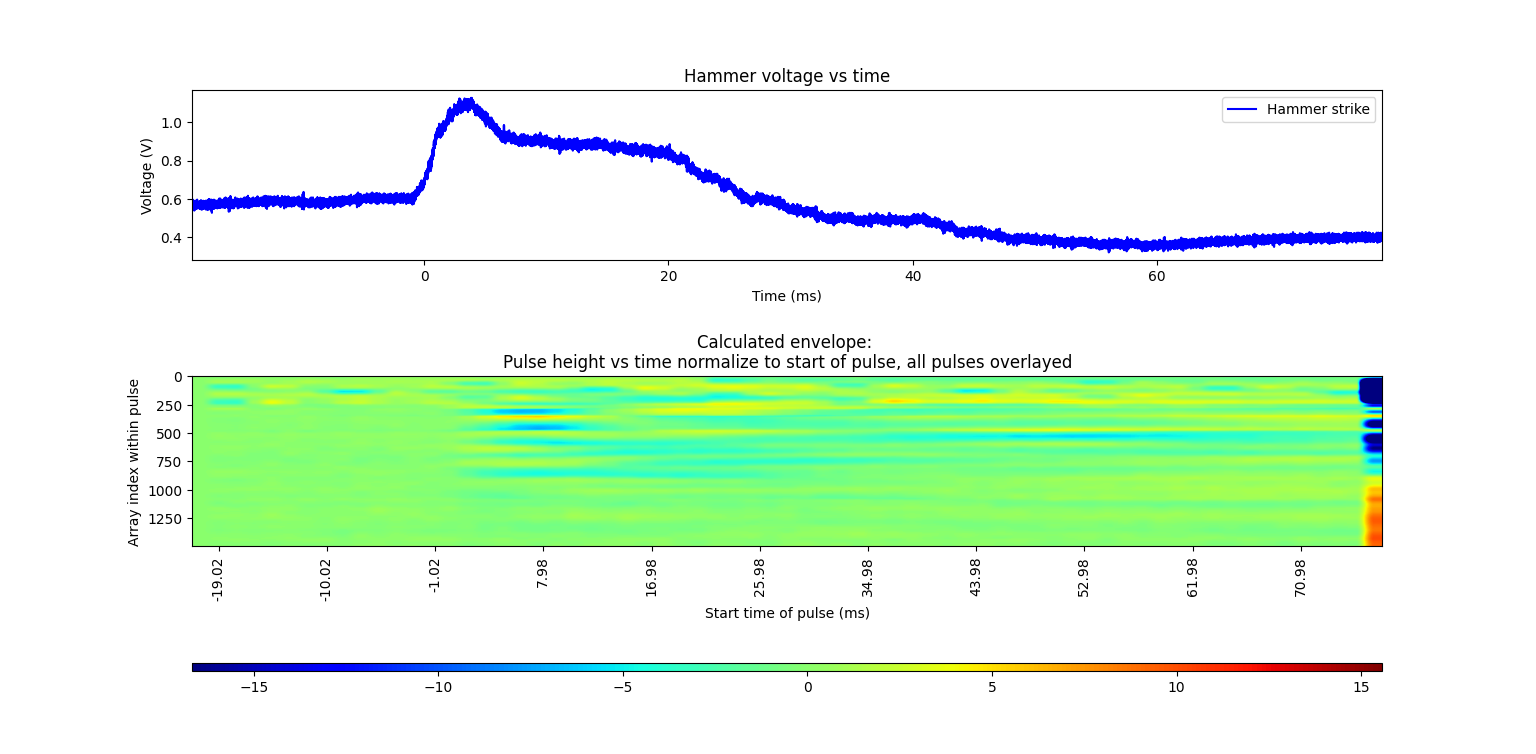
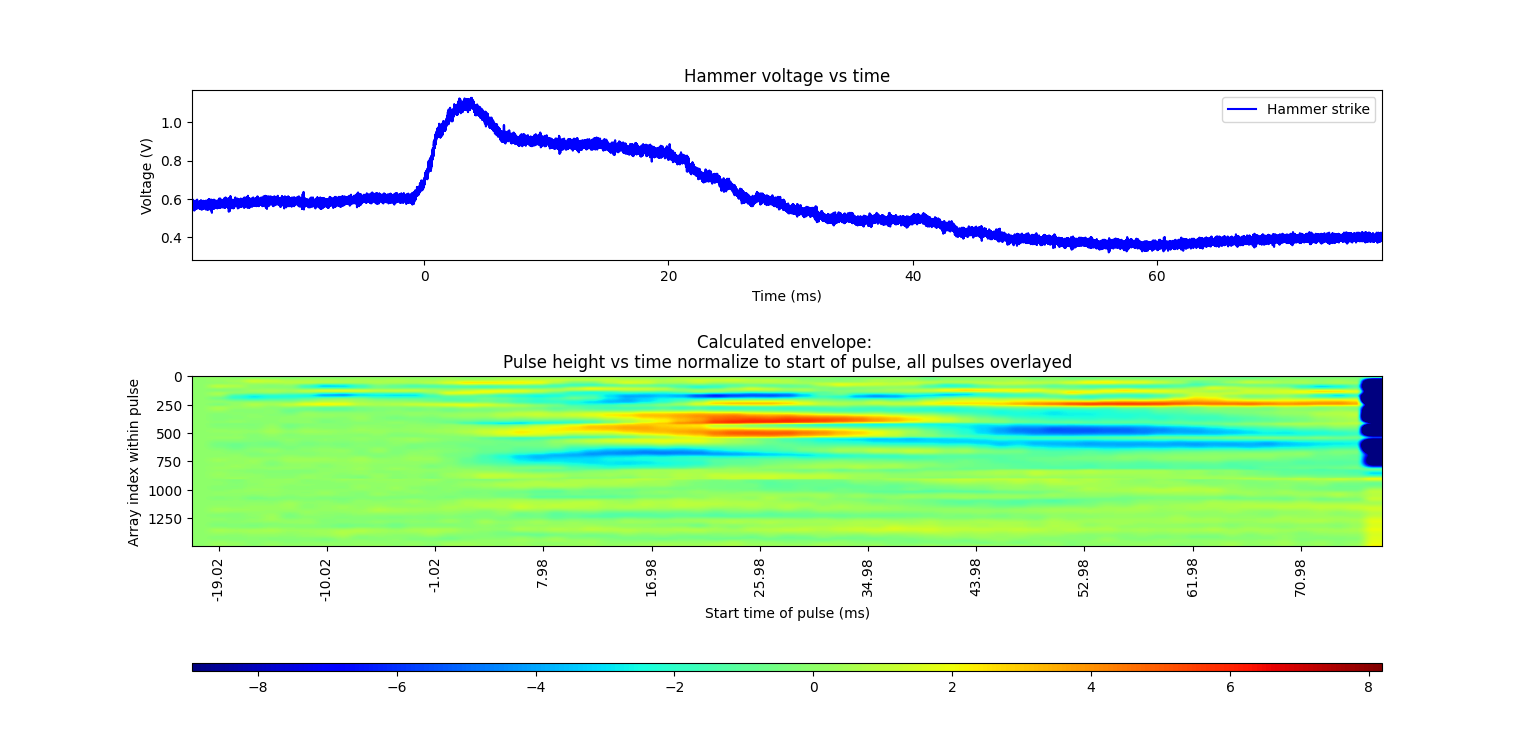
uhhh I guess I ran some more analysis

Changed region(s): [[0.125, 0.4881, 0.9062, 0.7321], [0.2188, 0.7016, 0.25, 0.7321], [0.1562, 0.7016, 0.1875, 0.7321]]

diff --git a/src/data_analysis_jupyter/analyze_Pico_data.py b/src/data_analysis_jupyter/analyze_Pico_data.py
@@ -1313,17 +1313,17 @@ if __name__ == "__main__":
         "src/app_v1/data_from_experiments/lower_resolution_longer_time_trials/sina/Pico/sina22.csv"
     ]
 
-    pico_file_names_rachel_P1 = [
-        "src/app_v1/data_from_experiments/reflex_by_subject/Pico/rachel/rachel_no_box/rachel_t1.csv",
-        "src/app_v1/data_from_experiments/reflex_by_subject/Pico/rachel/rachel_no_box/rachel_t2.csv",
-        "src/app_v1/data_from_experiments/reflex_by_subject/Pico/rachel/rachel_no_box/rachel_t3.csv",
-        "src/app_v1/data_from_experiments/reflex_by_subject/Pico/rachel/rachel_no_box/rachel_t4.csv",
-        "src/app_v1/data_from_experiments/reflex_by_subject/Pico/rachel/rachel_no_box/rachel_t5.csv",
-        "src/app_v1/data_from_experiments/reflex_by_subject/Pico/rachel/rachel_no_box/rachel_t6.csv",
-        "src/app_v1/data_from_experiments/reflex_by_subject/Pico/rachel/rachel_no_box/rachel_t7.csv",
-        "src/app_v1/data_from_experiments/reflex_by_subject/Pico/rachel/rachel_no_box/rachel_t8.csv",
-        "src/app_v1/data_from_experiments/reflex_by_subject/Pico/rachel/rachel_no_box/rachel_t9.csv",
-        "src/app_v1/data_from_experiments/reflex_by_subject/Pico/rachel/rachel_no_box/rachel_t10.csv"
+    pico_file_names_brynna_P1 = [
+        "src/app_v1/data_from_experiments/reflex_by_subject/Pico/brynna/brynna_no_box/brynna1.csv",
+        "src/app_v1/data_from_experiments/reflex_by_subject/Pico/brynna/brynna_no_box/brynna2.csv",
+        "src/app_v1/data_from_experiments/reflex_by_subject/Pico/brynna/brynna_no_box/brynna3.csv",
+        "src/app_v1/data_from_experiments/reflex_by_subject/Pico/brynna/brynna_no_box/brynna4.csv",
+        "src/app_v1/data_from_experiments/reflex_by_subject/Pico/brynna/brynna_no_box/brynna5.csv",
+        "src/app_v1/data_from_experiments/reflex_by_subject/Pico/brynna/brynna_no_box/brynna6.csv",
+        "src/app_v1/data_from_experiments/reflex_by_subject/Pico/brynna/brynna_no_box/brynna7.csv",
+        "src/app_v1/data_from_experiments/reflex_by_subject/Pico/brynna/brynna_no_box/brynna8.csv",
+        "src/app_v1/data_from_experiments/reflex_by_subject/Pico/brynna/brynna_no_box/brynna9.csv",
+        "src/app_v1/data_from_experiments/reflex_by_subject/Pico/brynna/brynna_no_box/brynna10.csv"
     ]
 
     pico_file_names_priya_P1 = [
@@ -1338,19 +1338,6 @@ if __name__ == "__main__":
         "src/app_v1/data_from_experiments/reflex_by_subject/Pico/priya/priyatrial9.txt",
         "src/app_v1/data_from_experiments/reflex_by_subject/Pico/priya/priyatrial10.txt"
     ]
-
-    rachel_two_cuff = [
-        "src/app_v1/data_from_experiments/two_cuff/rachel 2 cuff-0001.csv",
-        "src/app_v1/data_from_experiments/two_cuff/rachel 2 cuff-0002.csv",
-        "src/app_v1/data_from_experiments/two_cuff/rachel 2 cuff-0003.csv",
-        "src/app_v1/data_from_experiments/two_cuff/rachel 2 cuff-0004.csv",
-        "src/app_v1/data_from_experiments/two_cuff/rachel 2 cuff-0005.csv",
-        "src/app_v1/data_from_experiments/two_cuff/rachel 2 cuff-0006.csv",
-        "src/app_v1/data_from_experiments/two_cuff/rachel 2 cuff-0007.csv",
-        "src/app_v1/data_from_experiments/two_cuff/rachel 2 cuff-0008.csv",
-        "src/app_v1/data_from_experiments/two_cuff/rachel 2 cuff-0009.csv",
-        "src/app_v1/data_from_experiments/two_cuff/rachel 2 cuff-0010.csv"
-    ]
     #####################################################################################################
     #####################################################################################################
     #####################################################################################################
@@ -1360,14 +1347,14 @@ if __name__ == "__main__":
     # !!!!!!!!!!!!!!!!!!!!!!!!!!!!!!!!!!!!!!!!!!!!!!!!!!!! Example usage: Uncomment to analyze one experiment.
     #''' 
     # !!!!!!!!!!!!!!! User should edit: file_names, col_order, experiment_name as needed.
-    file_names = rachel_two_cuff
-    col_order = [0, 3, 4, 1, 2, 1]  # time=col 0, hammer=col 3, transmitted=col 4, raw recieved=col 1, circuit env=col 2, emg=1 (dummy)
-    experiment_name = "Exp_Summary_rachel_two_cuff_calf"
+    file_names = pico_file_names_brynna_P1
+    col_order = [0, 2, 3, 1, 2, 1]  # time=col 0, hammer=col 3, transmitted=col 4, raw recieved=col 1, circuit env=col 2, emg=1 (dummy)
+    experiment_name = "Exp_Summary_Brynna_P1"
     analyze_circuit_envelope = False
     analyze_calculated_envelope = True
     # !!!!!!!!!!!!!!!
 
-    '''
+    #'''
     # Analyze each trial in the experiment.
     for file_name in file_names:
         if (analyze_circuit_envelope):
